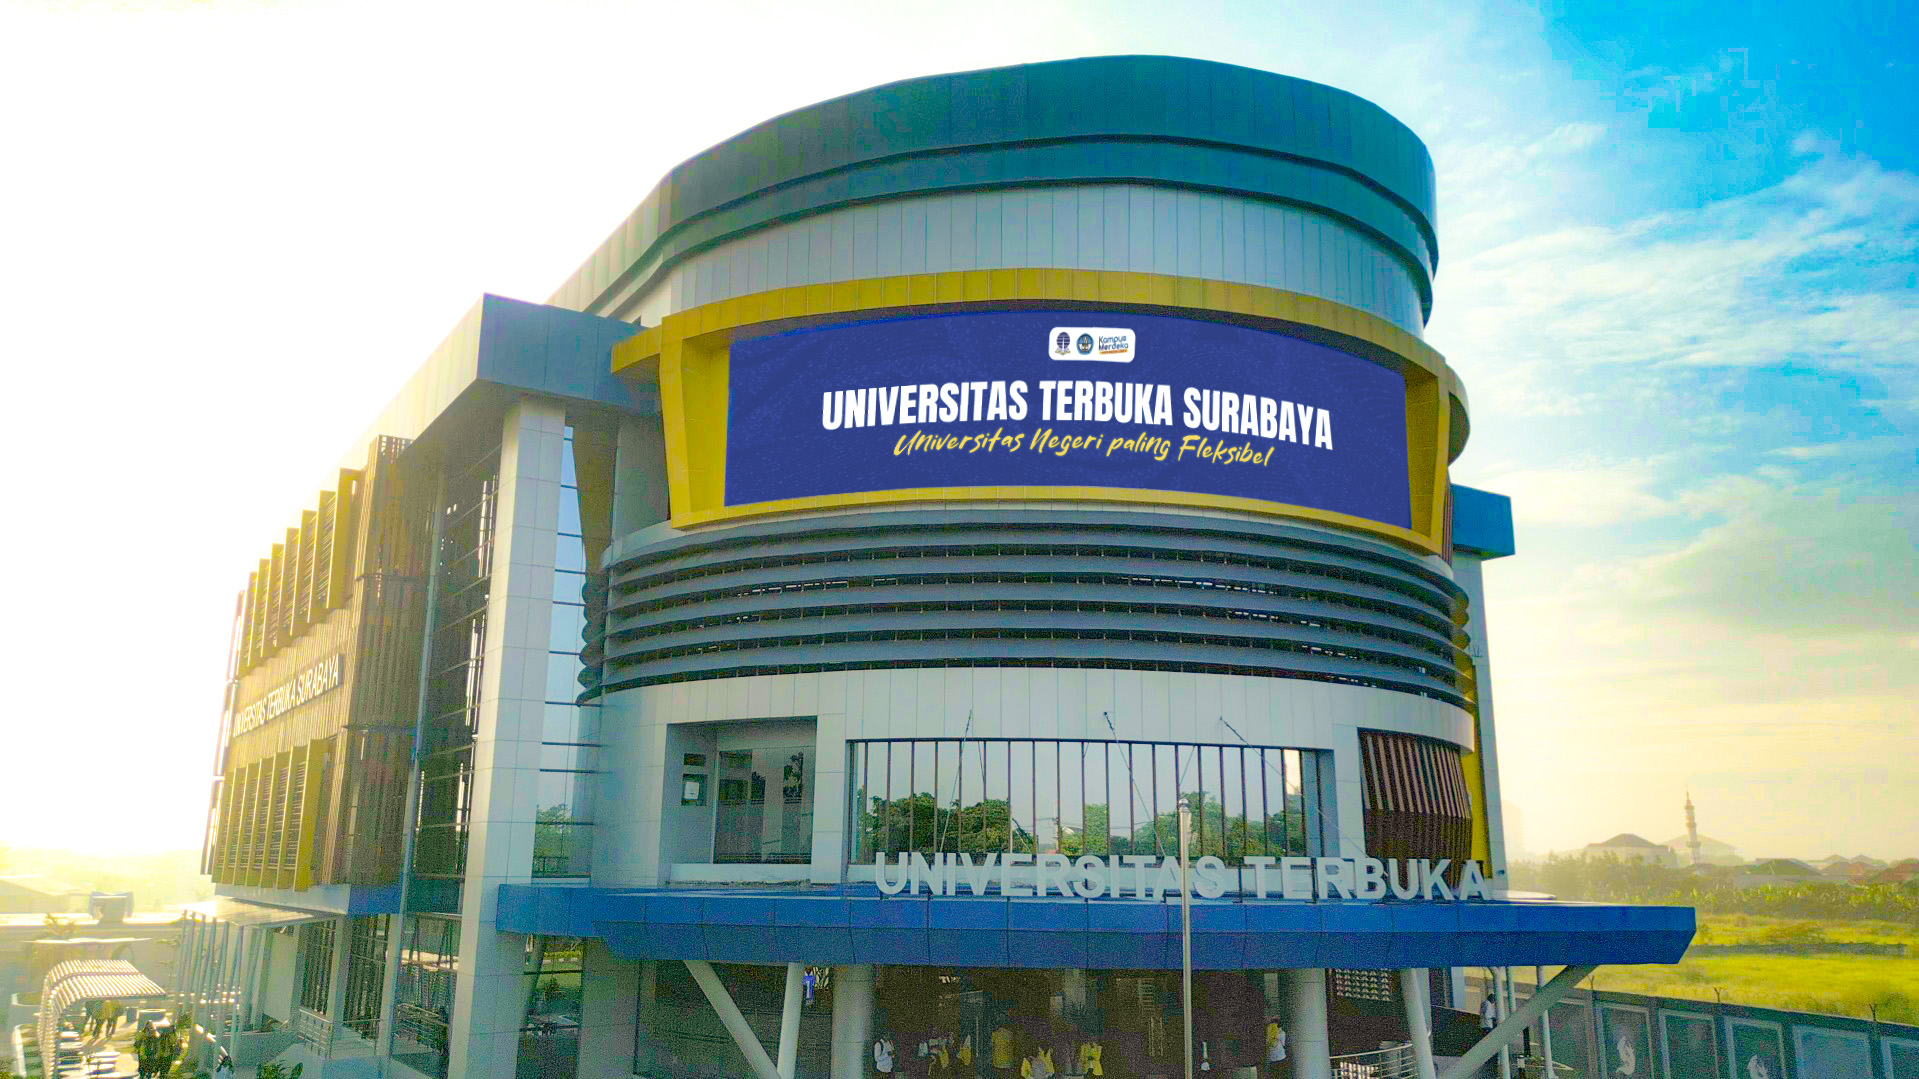
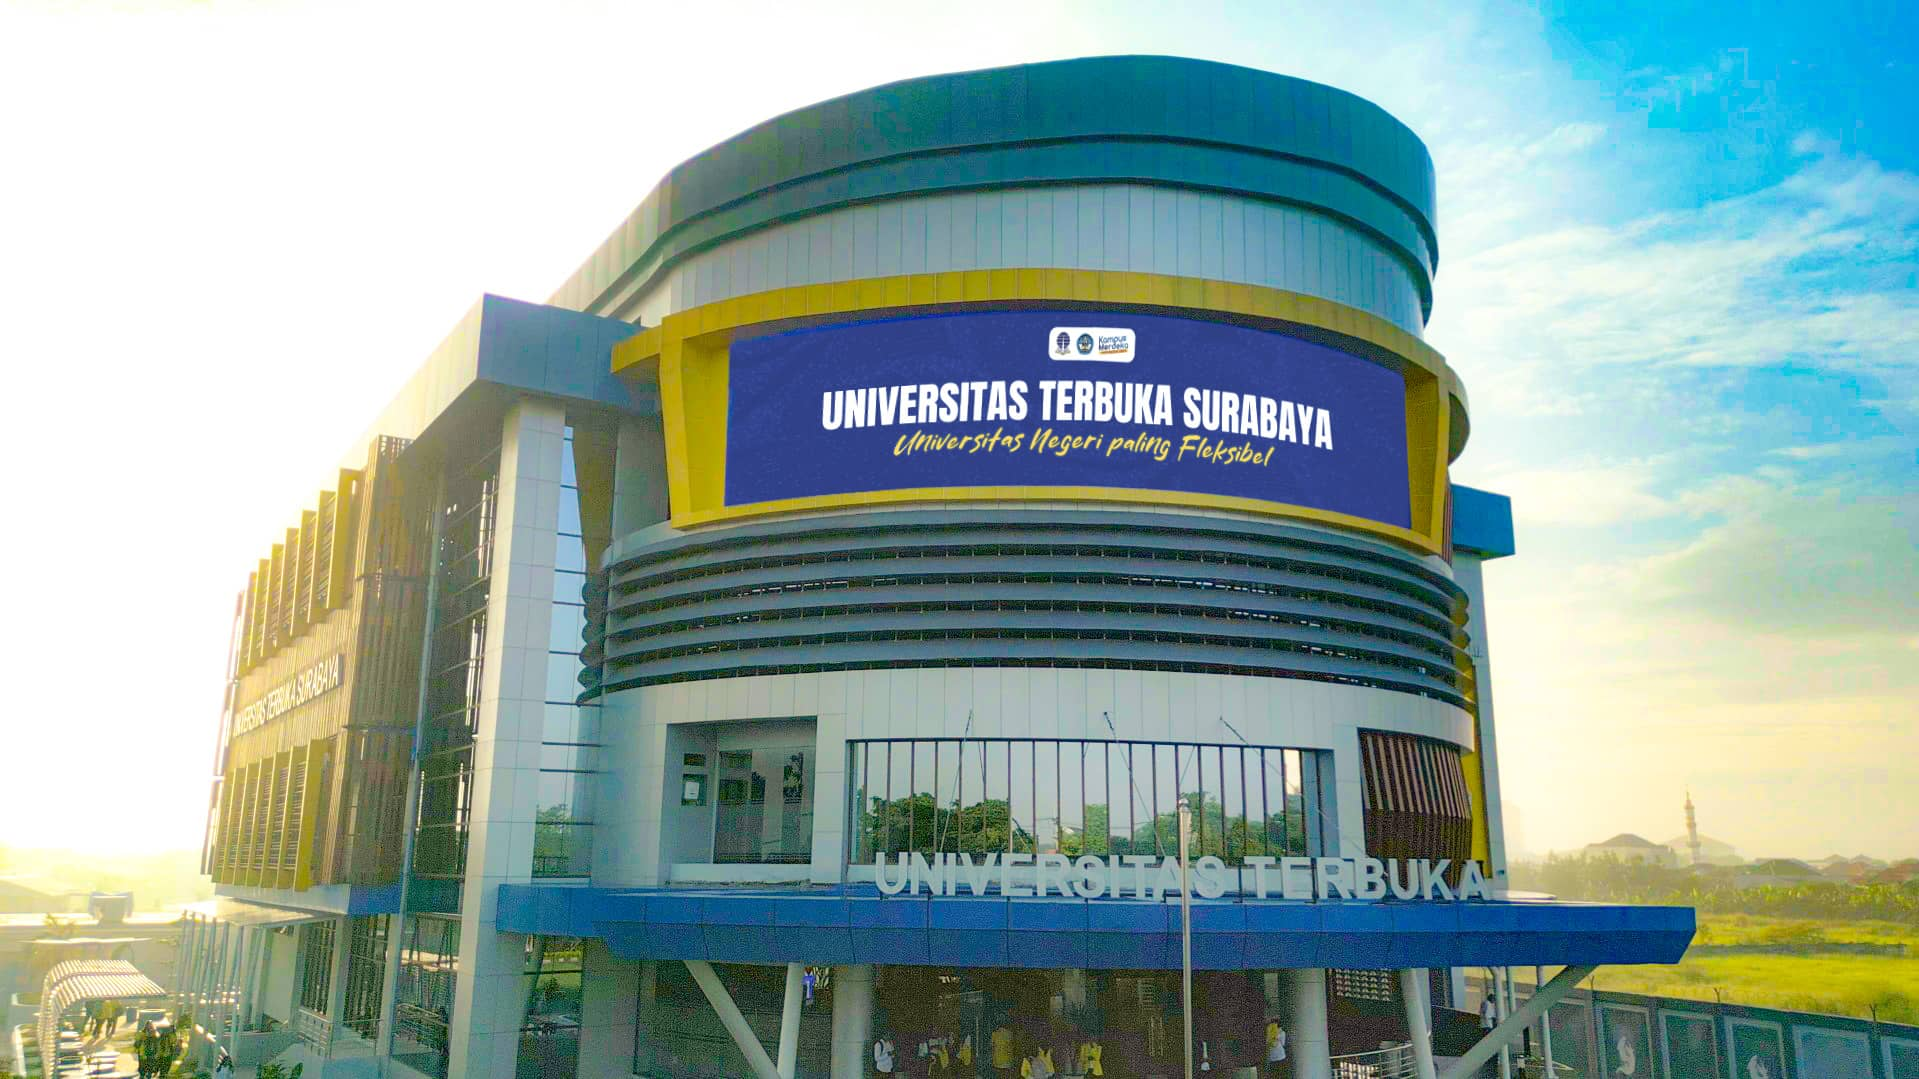
perf: lazy-load chat widget and spotlight, tune image and bundle config
The chat launcher and the assistant spotlight both shipped in the
landing entry bundle despite sitting below the fold. Both are now split
into their own chunks; the spotlight keeps SSR so it stays in the
initial HTML with no layout shift.

Also serves AVIF/WebP, allows Supabase Storage as a remote image host
(module covers and product images are uploaded there), and recompresses
three oversized marketing images — together roughly 1.7 MB off the page.

diff --git a/components/chat/ChatLauncher.tsx b/components/chat/ChatLauncher.tsx
@@ -45,24 +45,38 @@ export default function ChatLauncher() {
     let cancelled = false;
     let showTimer: ReturnType<typeof setTimeout>;
     let hideTimer: ReturnType<typeof setTimeout>;
-    api.config
-      .getChatWidget()
-      .then((cfg) => cfg.greeting)
-      .catch(() => GREETING_FALLBACK)
-      .then((greeting) => {
-        if (cancelled || !greeting.enabled) return;
-        setGreetingText(greeting.text);
-        showTimer = setTimeout(() => {
-          setShowGreeting(true);
-          try {
-            sessionStorage.setItem(GREETING_SHOWN_KEY, '1');
-          } catch {}
-          // Auto-hide without muting: the greeting may still appear in a future session.
-          hideTimer = setTimeout(() => setShowGreeting(false), greeting.autoHideMs);
-        }, greeting.showDelayMs);
-      });
+
+    const fetchGreeting = () => {
+      api.config
+        .getChatWidget()
+        .then((cfg) => cfg.greeting)
+        .catch(() => GREETING_FALLBACK)
+        .then((greeting) => {
+          if (cancelled || !greeting.enabled) return;
+          setGreetingText(greeting.text);
+          showTimer = setTimeout(() => {
+            setShowGreeting(true);
+            try {
+              sessionStorage.setItem(GREETING_SHOWN_KEY, '1');
+            } catch {}
+            // Auto-hide without muting: the greeting may still appear in a future session.
+            hideTimer = setTimeout(() => setShowGreeting(false), greeting.autoHideMs);
+          }, greeting.showDelayMs);
+        });
+    };
+
+    // The greeting is never needed for first paint, so keep its request off the
+    // critical path and let it land once the browser is idle. Safari <17 has no
+    // requestIdleCallback, so fall back to a timeout there.
+    const hasIdle = typeof window.requestIdleCallback === 'function';
+    const idleHandle = hasIdle
+      ? window.requestIdleCallback(fetchGreeting, { timeout: 3000 })
+      : window.setTimeout(fetchGreeting, 1000);
+
     return () => {
       cancelled = true;
+      if (hasIdle) window.cancelIdleCallback(idleHandle);
+      else clearTimeout(idleHandle);
       clearTimeout(showTimer);
       clearTimeout(hideTimer);
     };

diff --git a/app/_components/HomePageContent.tsx b/app/_components/HomePageContent.tsx
@@ -1,12 +1,17 @@
 'use client'
 
 import { motion } from 'framer-motion'
+import dynamic from 'next/dynamic'
 import Image from 'next/image'
 import Link from 'next/link'
-import AssistantSpotlight from '@/app/_components/AssistantSpotlight'
 import type { FeesConfig } from '@/lib/api'
 import { TOKO_CATEGORIES } from '@/lib/toko-categories'
 import { cn } from '@/lib/utils'
+
+// Below-the-fold marketing band. Split into its own chunk so it does not weigh
+// down the landing entry bundle; SSR stays on so the section is still in the
+// initial HTML (no layout shift, still indexable).
+const AssistantSpotlight = dynamic(() => import('@/app/_components/AssistantSpotlight'))
 
 // ─── Animation config ──────────────────────────────────────────────────────
 

diff --git a/next.config.ts b/next.config.ts
@@ -1,12 +1,25 @@
 import type { NextConfig } from "next";
+import bundleAnalyzer from "@next/bundle-analyzer";
+
+const withBundleAnalyzer = bundleAnalyzer({
+  enabled: process.env.ANALYZE === "true",
+});
 
 const nextConfig: NextConfig = {
   images: {
+    formats: ['image/avif', 'image/webp'],
     remotePatterns: [
       {
         protocol: 'http',
         hostname: 'tbo.karunika.co.id',
         pathname: '/**',
+      },
+      {
+        // Module cover + product images are uploaded to Supabase Storage
+        // (see ut-taiwan-be/services/scraperService.js uploadCoverImage).
+        protocol: 'https',
+        hostname: '**.supabase.co',
+        pathname: '/storage/v1/object/public/**',
       },
     ],
   },
@@ -22,4 +35,4 @@ const nextConfig: NextConfig = {
   },
 };
 
-export default nextConfig;
+export default withBundleAnalyzer(nextConfig);

diff --git a/components/chat/ChatLauncherLazy.tsx b/components/chat/ChatLauncherLazy.tsx
@@ -1,0 +1,14 @@
+'use client';
+
+import dynamic from 'next/dynamic';
+
+// The launcher pulls in Framer Motion, the chat panel, and react-markdown +
+// remark/rehype plugins. None of that is needed for first paint on any page, so
+// defer the whole subtree until after hydration. ssr:false keeps it out of the
+// server-rendered HTML and the initial JS bundle; the lightweight ChatProvider
+// (which owns the socket, closed until first send) still loads eagerly.
+const ChatLauncher = dynamic(() => import('./ChatLauncher'), { ssr: false });
+
+export default function ChatLauncherLazy() {
+  return <ChatLauncher />;
+}

diff --git a/app/layout.tsx b/app/layout.tsx
@@ -11,7 +11,7 @@ import { ToastProvider } from "@/components/ui/Toast";
 import SessionExpiryModal from "@/components/ui/SessionExpiryModal";
 import Providers from "@/components/ui/Providers";
 import { ChatProvider } from "@/components/chat/ChatProvider";
-import ChatLauncher from "@/components/chat/ChatLauncher";
+import ChatLauncher from "@/components/chat/ChatLauncherLazy";
 import { Analytics } from "@vercel/analytics/next";
 import { SpeedInsights } from "@vercel/speed-insights/next";
 
